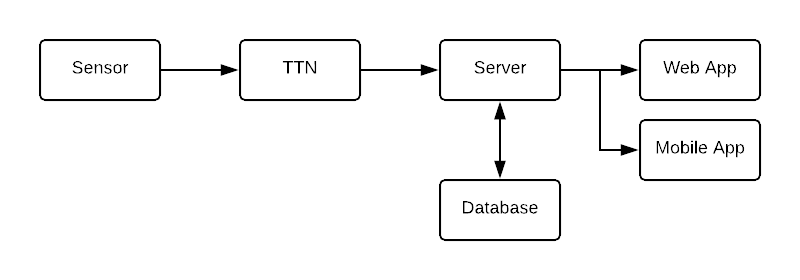
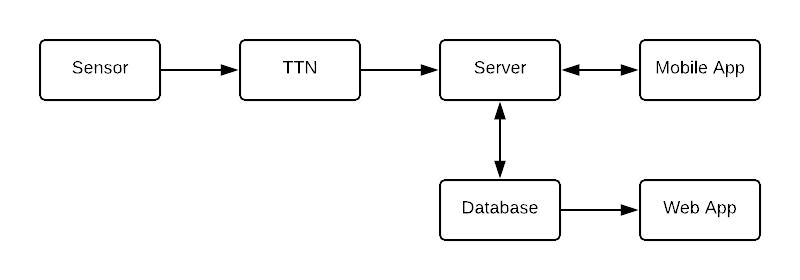
Changed diagrams, added project documentation.

diff --git a/README.md b/README.md
@@ -1,0 +1,103 @@
+### Data flow and Network Architecture Diagram
+
+![](media/Data_Flow_Network_Architecture.png)
+
+# Sensor
+
+Air pollution sensor IoT device.
+
+Created by Bahareh Zaghari.
+
+Uses the Sensiron Particulate Matter Sensor SPS30.
+
+Sends data to The Things Network (TTN)
+
+# TTN
+
+Received messages from IoT devices and sends them to registered listeners (application)
+
+TTN Storage Integration
+
+Collects upstream data (data from sensor) and stores for 7 days.
+
+Serves the data via a simple REST API.
+
+# Server (API + TTN listener + DB)
+
+Server is fairly simple, written in Node.js and TypeScript.
+
+#### TTN Listener
+
+Gets data from TTN provider:
+
+Registers as a listener for the TTN account - receives all messages in real-time from sensors.
+
+Can poll REST API to get all messages over last 7 days.
+
+#### Firebase (Firestore)
+
+Adds the sensor messages data to the database.
+
+General structure of message is:
+```
+{
+  timestamp: number (Unix epoch time in milliseconds)
+  lat: number
+  lng: number
+  value: number (air pollution value)
+  sensorID: string (unique ID of sensor)
+}
+```
+
+#### API
+
+Server has an API to:
+
+Mobile App:
+
+- Create users and associate them with their sensor
+- Let users retrieve heatmap data of current air pollution
+- Let users retrieve heatmap data of where data is needed - related to incentives
+
+Web App:
+
+- Let authenticated project supervisors have access to all data
+
+# Web App
+
+The web app is written is plain Javascript (+ HTML & CSS) and compiled with Babel and Webpack.
+
+Uses Google Maps to display data visualisations.
+
+Connects to Firebase Firestore to access all air pollution and treatment data.
+
+# Mobile App
+
+Still in progress. Half implemented in Ionic - reimplementing in React Native.
+
+Will allow users to link their sensors.
+
+Will display current air pollution / data need heatmap.
+
+Might need to periodically send location to track sensor.
+
+# Setup
+
+#### Credentials
+
+Firebase Firestore - ask me or create new database.
+
+The Things Network - ask me or Bahareh for details.
+
+These files can be seen in the `.gitignore` file or by trying to run the program.
+
+#### Dependencies
+
+Install `npm` or `yarn` globally. I highly recommend using yarn!
+
+Install project dependencies after cloning with `yarn` or `npm install`
+
+#### Deploying
+
+Project is not deployed yet, instructions will be updated.
+Most likely Heroku or Firebase.
